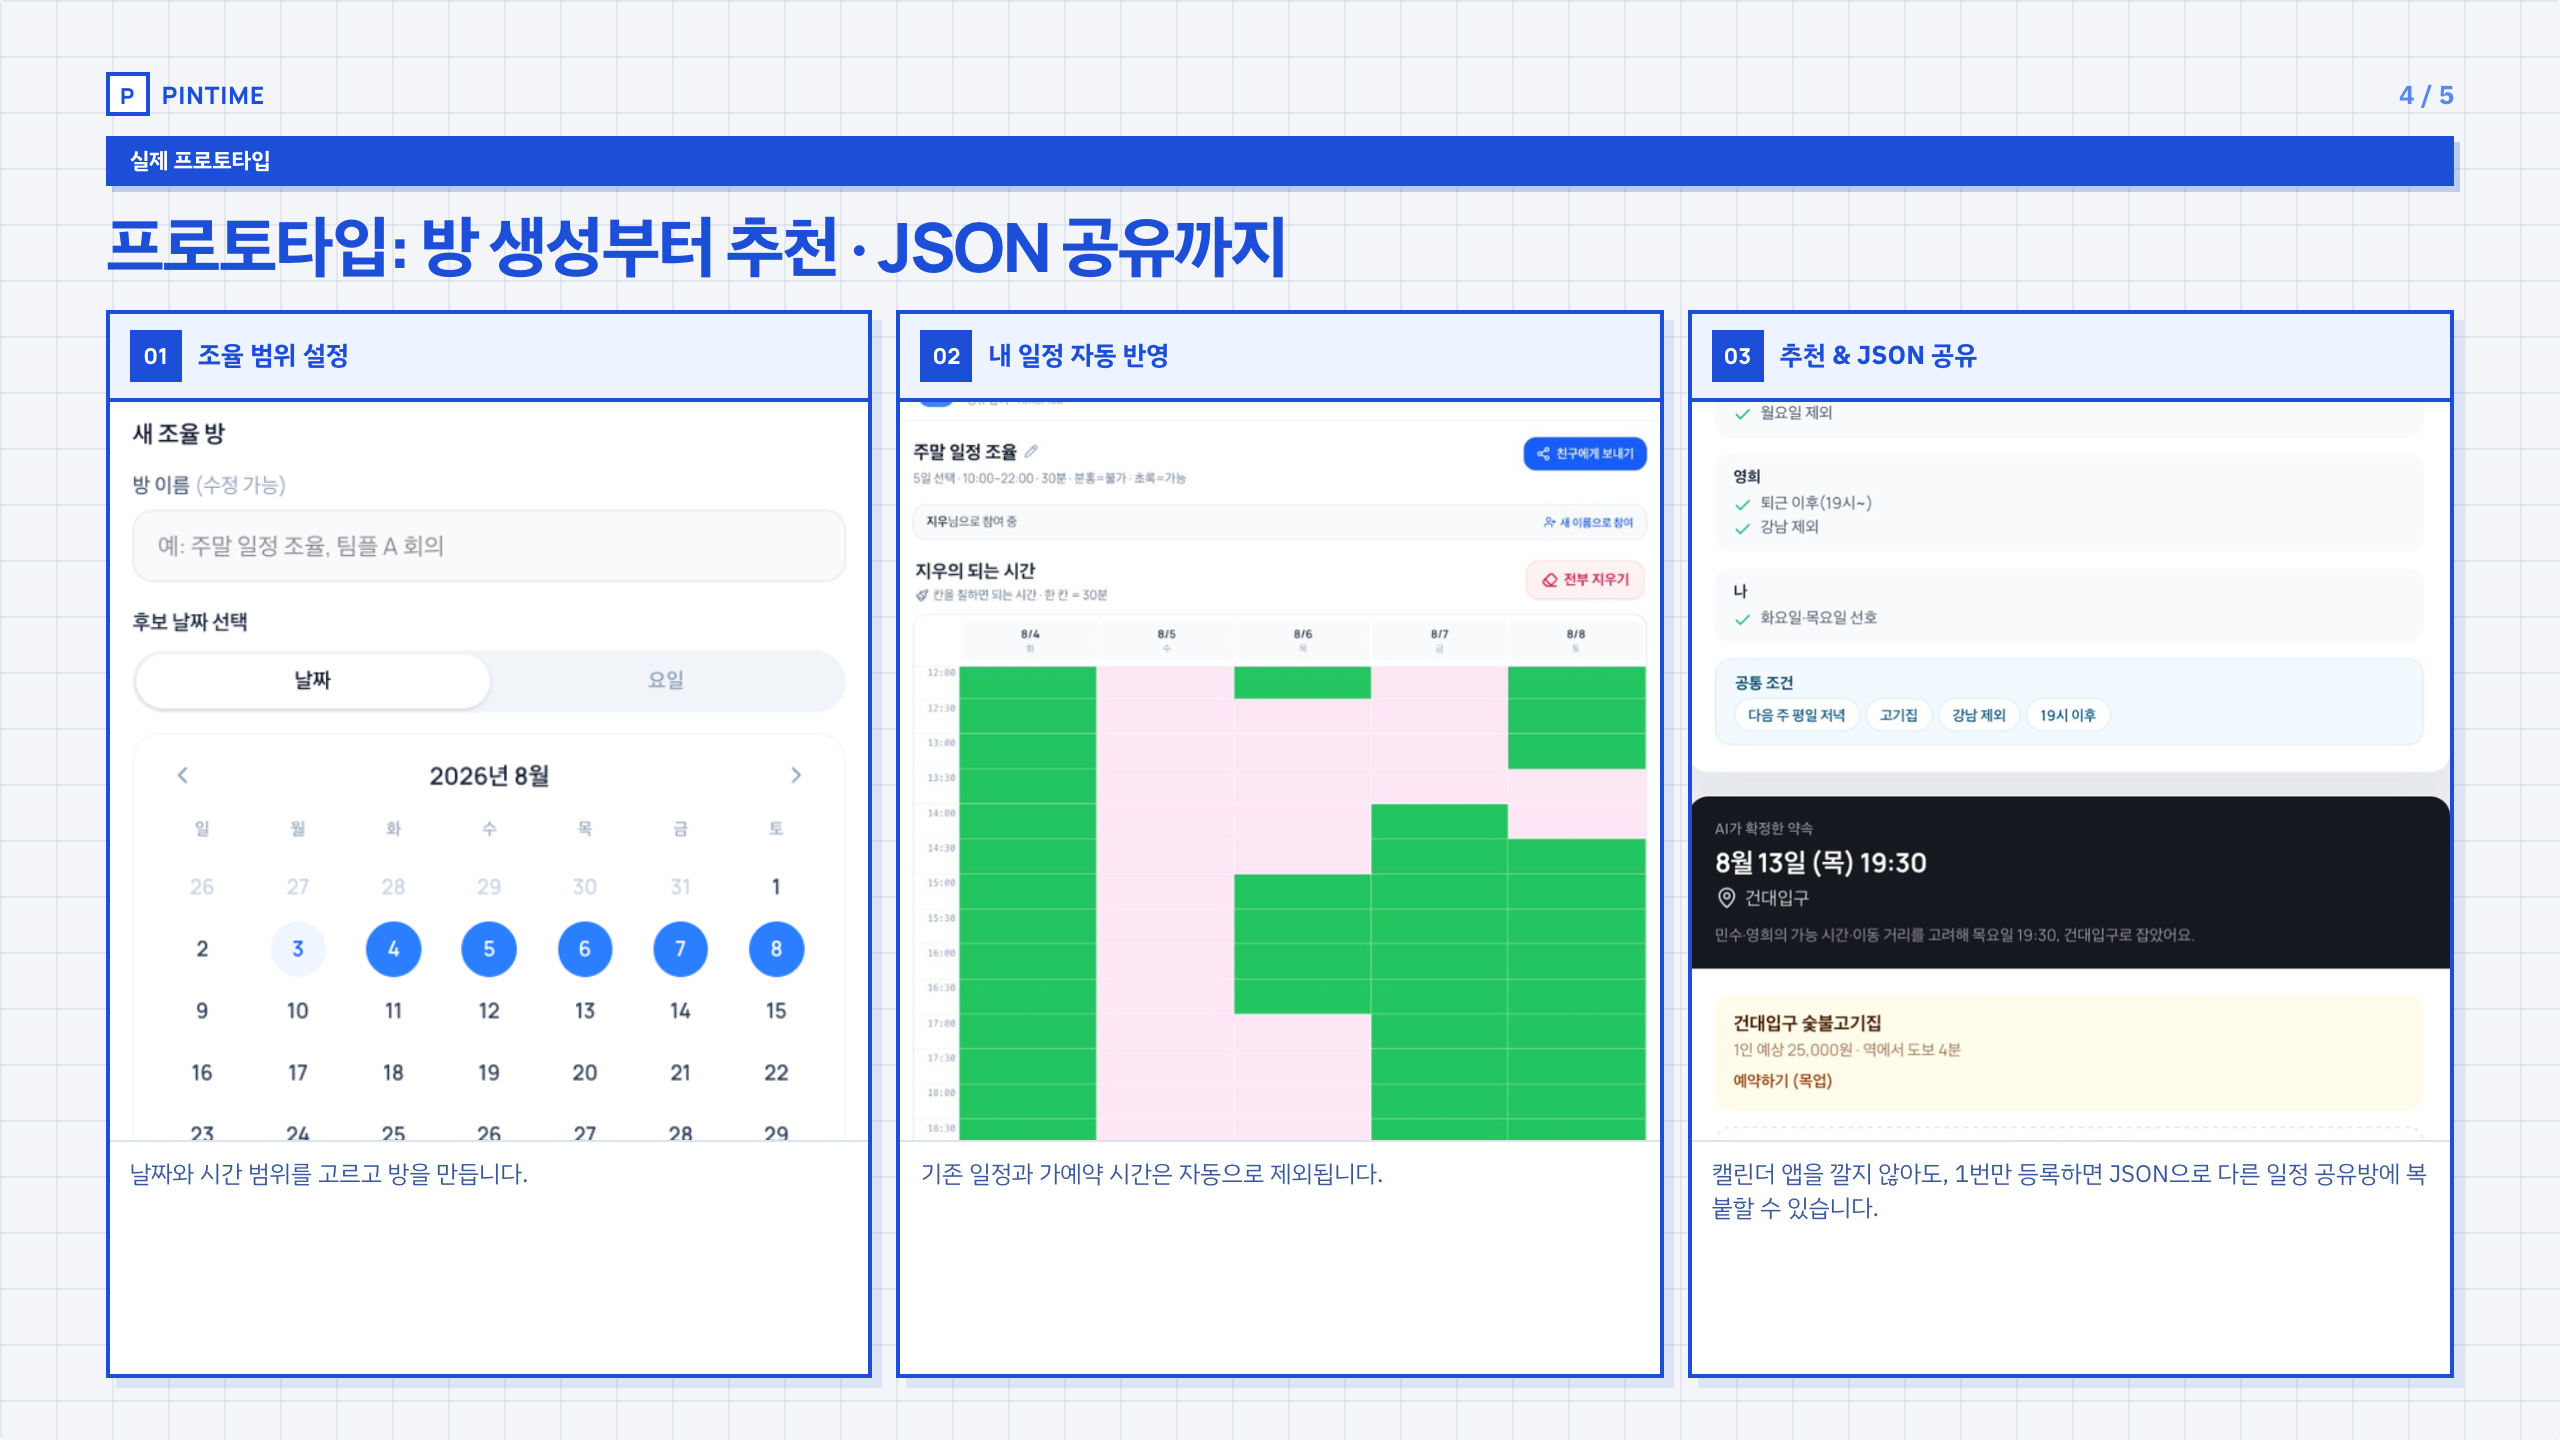
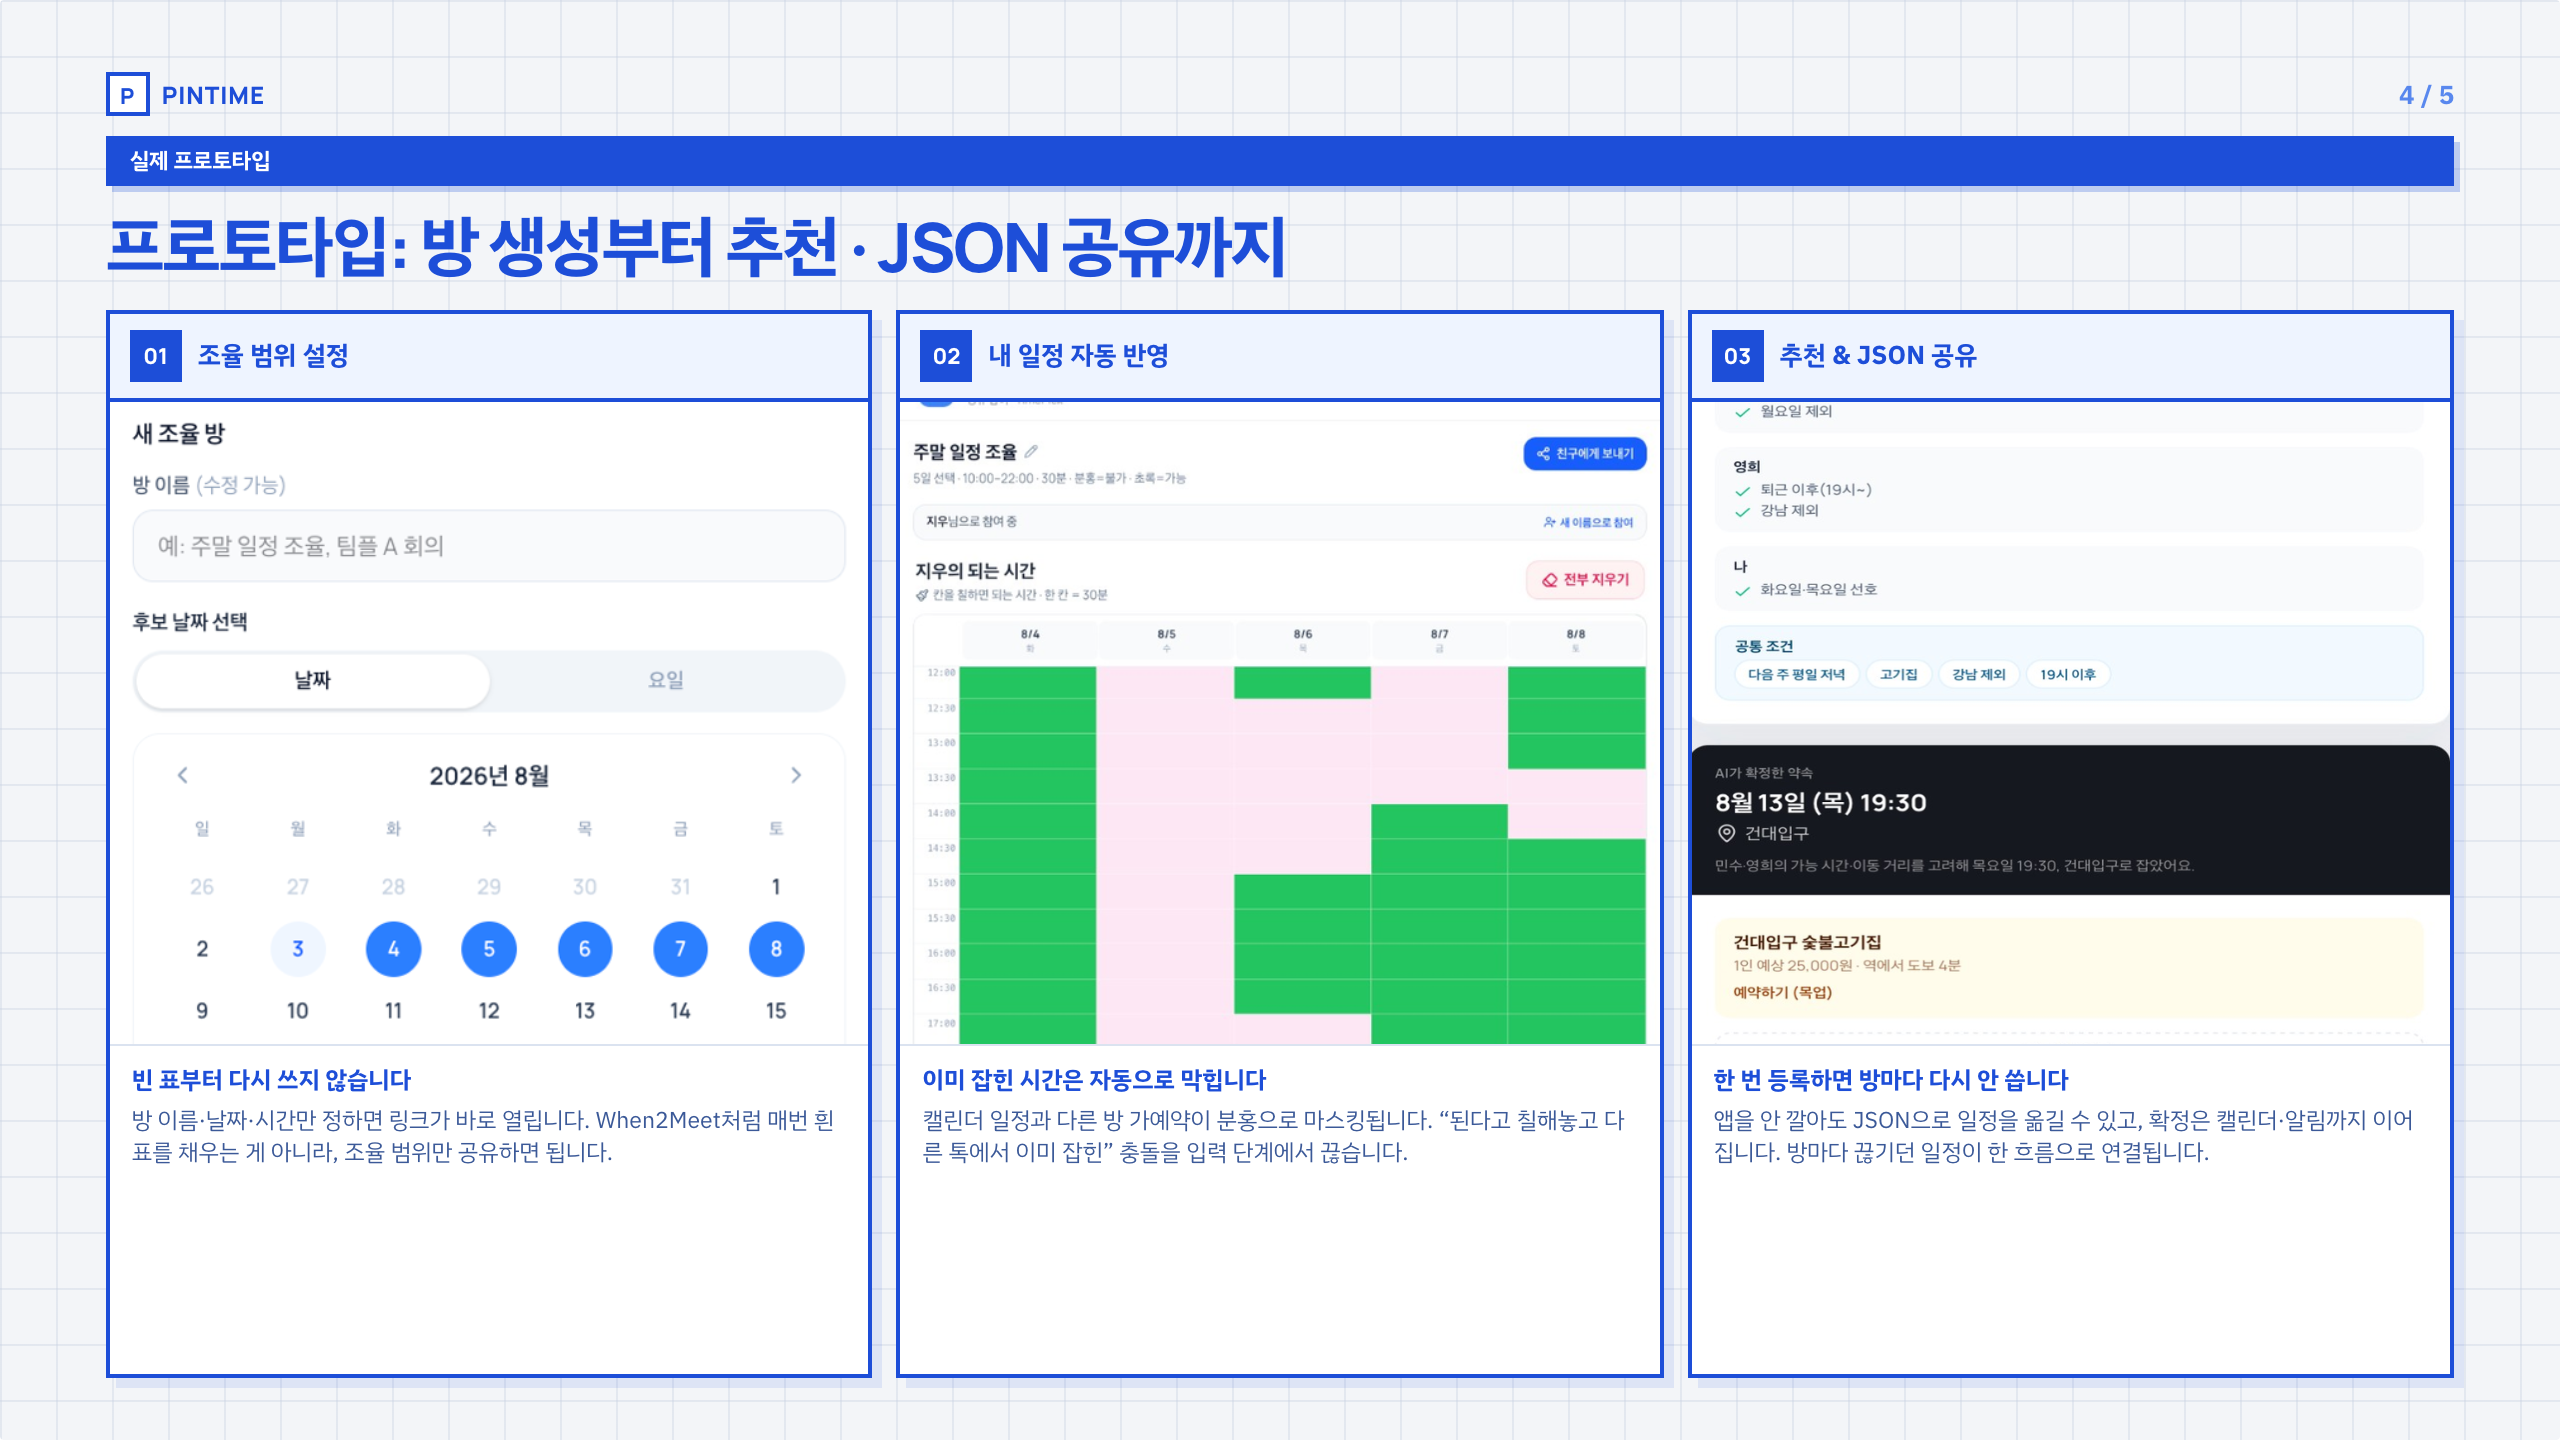
Expand prototype captions with PinTime differentiators.

Changed region(s): [[0.3438, 0.4062, 0.9688, 0.8438], [0.0312, 0.7188, 0.3125, 0.8438], [0.6562, 0.2812, 0.7188, 0.375]]

diff --git a/public/pitch.html b/public/pitch.html
@@ -576,8 +576,8 @@
       .proto-card .shot {
         flex: 1;
         min-height: 0;
-        height: 3.85in;
-        max-height: 3.85in;
+        height: 3.35in;
+        max-height: 3.35in;
         object-fit: cover;
         object-position: top center;
         width: 100%;
@@ -588,16 +588,24 @@
         object-fit: fill;
         object-position: center top;
         width: 100%;
-        height: 3.85in;
-        max-height: 3.85in;
+        height: 3.35in;
+        max-height: 3.35in;
         background: #f1f5f9;
       }
       .proto-card .cap {
-        padding: 8px 10px;
-        font-size: 12px;
-        line-height: 1.4;
+        padding: 9px 11px 10px;
+        font-size: 11.5px;
+        line-height: 1.45;
         color: var(--muted-solid);
         border-top: 1px solid #dbe3f0;
+        min-height: 0.95in;
+      }
+      .proto-card .cap b {
+        display: block;
+        margin-bottom: 3px;
+        font-size: 12px;
+        font-weight: 800;
+        color: var(--blue);
       }
       .proto-mock {
         flex: 1;
@@ -2234,7 +2242,11 @@
                 src="/pitch-shots/proto-01-range.png"
                 alt="방 이름·날짜·시간 범위를 고르는 화면"
               />
-              <div class="cap">날짜와 시간 범위를 고르고 방을 만듭니다.</div>
+              <div class="cap">
+                <b>빈 표부터 다시 쓰지 않습니다</b>
+                방 이름·날짜·시간만 정하면 링크가 바로 열립니다. When2Meet처럼
+                매번 흰 표를 채우는 게 아니라, 조율 범위만 공유하면 됩니다.
+              </div>
             </div>
             <div class="proto-card">
               <div class="ph"><span class="badge">02</span><b>내 일정 자동 반영</b></div>
@@ -2243,7 +2255,11 @@
                 src="/pitch-shots/proto-02-mask.png"
                 alt="분홍·초록으로 표시된 되는 시간 표"
               />
-              <div class="cap">기존 일정과 가예약 시간은 자동으로 제외됩니다.</div>
+              <div class="cap">
+                <b>이미 잡힌 시간은 자동으로 막힙니다</b>
+                캘린더 일정과 다른 방 가예약이 분홍으로 마스킹됩니다. “된다고
+                칠해놓고 다른 톡에서 이미 잡힌” 충돌을 입력 단계에서 끊습니다.
+              </div>
             </div>
             <div class="proto-card">
               <div class="ph"><span class="badge">03</span><b>추천 &amp; JSON 공유</b></div>
@@ -2253,8 +2269,9 @@
                 alt="공통 시간표와 JSON 복사·붙여넣기"
               />
               <div class="cap">
-                캘린더 앱을 깔지 않아도, 1번만 등록하면 JSON으로 다른 일정
-                공유방에 복붙할 수 있습니다.
+                <b>한 번 등록하면 방마다 다시 안 씁니다</b>
+                앱을 안 깔아도 JSON으로 일정을 옮길 수 있고, 확정은 캘린더·알림까지
+                이어집니다. 방마다 끊기던 일정이 한 흐름으로 연결됩니다.
               </div>
             </div>
           </div>

diff --git a/README.md b/README.md
@@ -32,7 +32,8 @@ HTML 소개서: [`public/pitch.html`](./public/pitch.html) · https://pintime.ve
 
 ### 4. 프로토타입 흐름
 
-방 생성 → 내 일정 자동 반영(마스킹) → 추천 & JSON 공유. 캘린더 앱 없이도 한 번 등록한 일정을 JSON으로 다른 방에 복붙할 수 있습니다.
+방 생성 → 내 일정 자동 반영(마스킹) → 추천 & JSON 공유.  
+빈 표를 다시 쓰지 않고, 기존·가예약을 자동 제외하며, 한 번 등록한 일정을 JSON으로 다른 방에 이어 붙일 수 있습니다.
 
 ![4. 방 생성부터 JSON 공유까지](./public/pitch-export/04-prototype.png)
 
